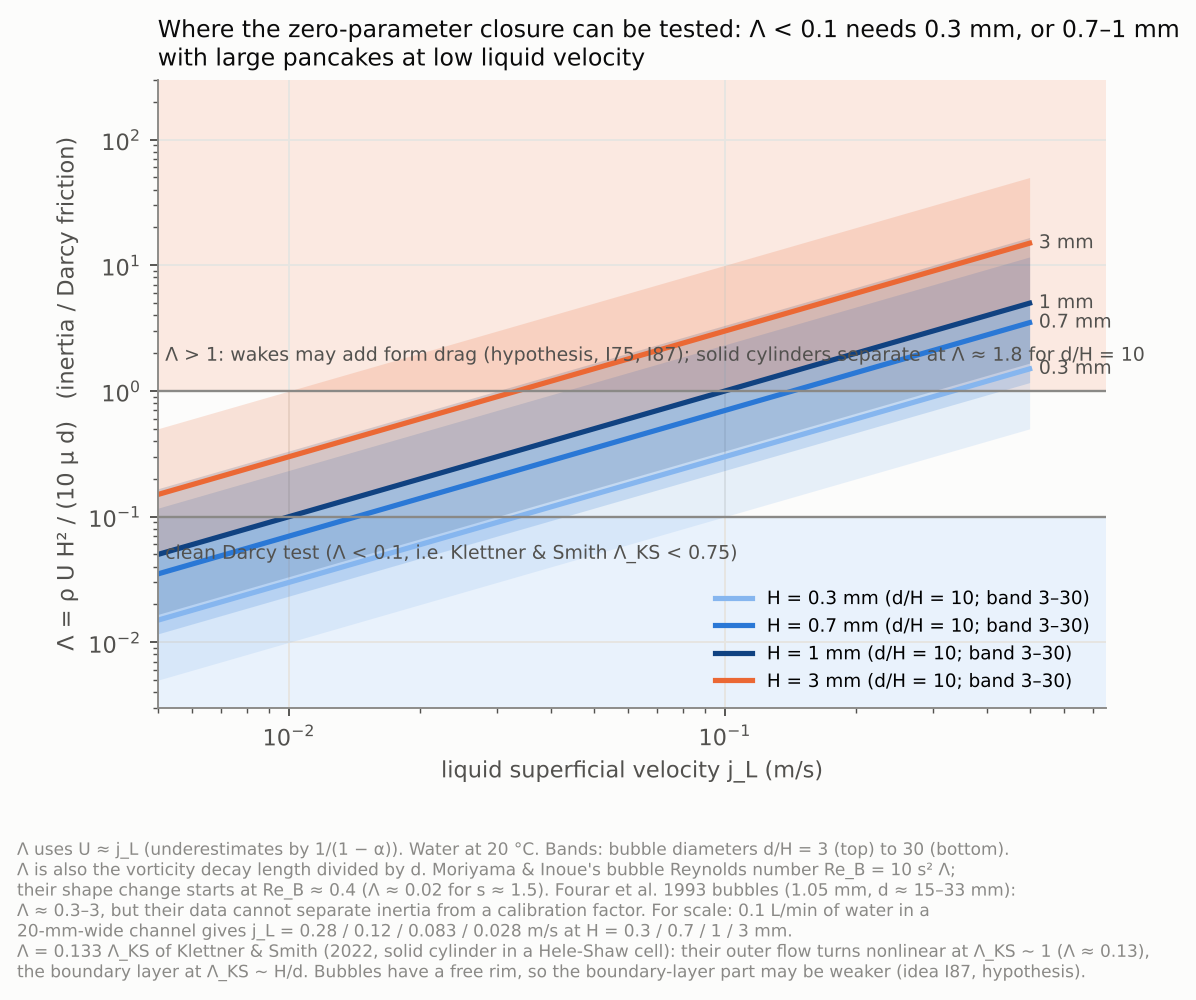
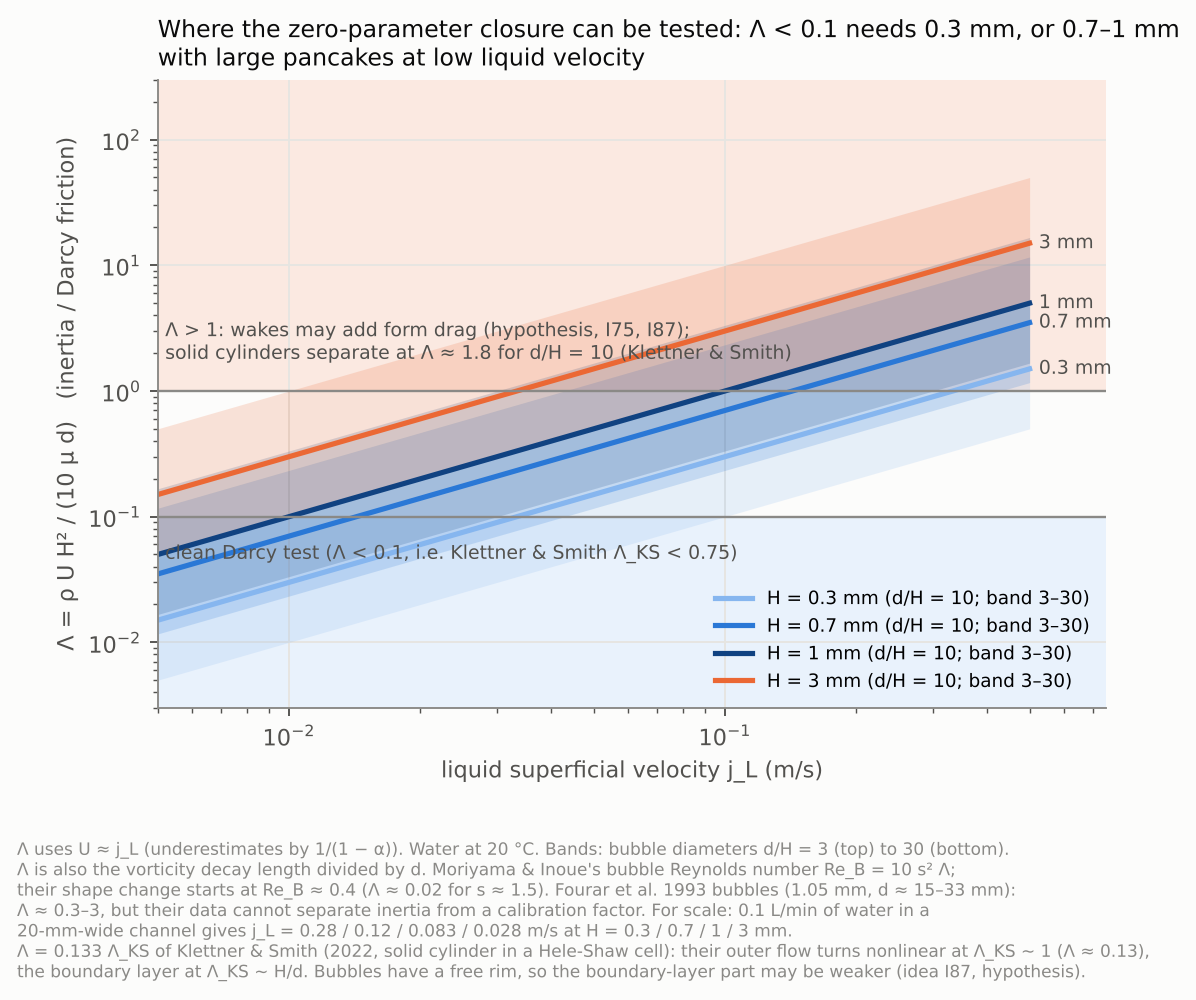
docs: 그림 r11 이름표 두 줄로
Claude-Session: https://claude.ai/code/session_01QFVWo3BPZ98Eh7jXYmYxkN

Changed region(s): [[0.1237, 0.31, 0.8043, 0.372], [0.8353, 0.341, 0.959, 0.372]]

diff --git a/docs/research/fig/src/fig_lambda_map.py b/docs/research/fig/src/fig_lambda_map.py
@@ -32,7 +32,7 @@ for H_mm, col in GAPS.items():
     ax.text(jl[-1] * 1.05, lam(10)[-1], f"{H_mm:g} mm", color=INK2, fontsize=8, va="center")
 ax.axhline(0.1, color=MUTED, lw=1); ax.axhline(1.0, color=MUTED, lw=1)
 ax.text(0.0052, 0.06, "clean Darcy test (Λ < 0.1, i.e. Klettner & Smith Λ_KS < 0.75)", color=INK2, fontsize=8, va="top")
-ax.text(0.0052, 1.6, "Λ > 1: wakes may add form drag (hypothesis, I75, I87); solid cylinders separate at Λ ≈ 1.8 for d/H = 10", color=INK2, fontsize=8, va="bottom")
+ax.text(0.0052, 1.6, "Λ > 1: wakes may add form drag (hypothesis, I75, I87);\nsolid cylinders separate at Λ ≈ 1.8 for d/H = 10 (Klettner & Smith)", color=INK2, fontsize=8, va="bottom")
 ax.set_xscale("log"); ax.set_yscale("log")
 ax.set_xlim(0.005, 0.75); ax.set_ylim(3e-3, 300)
 ax.grid(color=GRID, lw=0.8, which="major"); ax.set_axisbelow(True)
